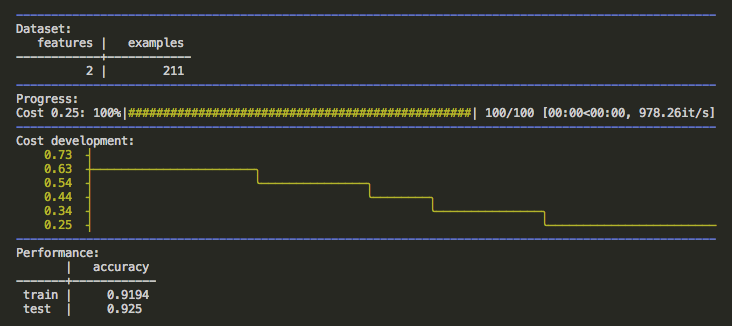
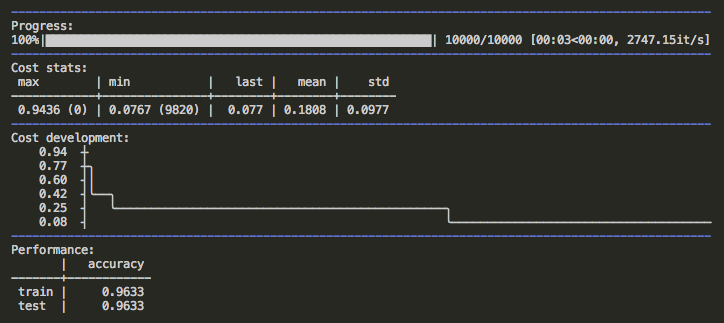
New data source

Changed region(s): [[0.0, 0.031, 1.0, 0.9598]]

diff --git a/main.py b/main.py
@@ -1,28 +1,27 @@
-import numpy as np
 from tabulate import tabulate
 from colorama import Fore
 
-from data import load_2D_dataset
+from data import load_dataset
 from model import DeepNN
-from utils.regularizers import Dropout
 
 from utils.layer import Layer
 from utils import activations
+from utils.regularizers import L2
 
 
 # Load data
-train_X, train_Y, test_X, test_Y = load_2D_dataset()
+train_X, train_Y, test_X, test_Y = load_dataset()
 
 # Set up the model
 dnn = DeepNN([
-    Layer(n=20, activation=activations.ReLU),
-    Layer(n=3, activation=activations.ReLU),
+    Layer(n=5, activation=activations.ReLU),
+    Layer(n=2, activation=activations.ReLU),
     Layer(n=1, activation=activations.sigmoid)
-], lr=0.3, num_epochs=10000)
+], lr=0.1, num_epochs=10000)
 
 # Train the model
 print()
-costs = dnn.train(train_X, train_Y, print_progress=True, print_coststats=True)
+costs = dnn.train(train_X, train_Y, print_progress=True, print_coststats=True, print_costdev=True)
 
 # Check the performance
 print(Fore.BLUE + '-' * 100 + Fore.RESET)

diff --git a/data.py b/data.py
@@ -2,6 +2,7 @@ import numpy as np
 import h5py
 import scipy.io
 import sklearn
+import sklearn.datasets
 
 import os
 dirname = os.path.dirname(__file__)
@@ -35,5 +36,18 @@ def load_2D_dataset():
     train_Y = data['y'].T
     test_X = data['Xval'].T
     test_Y = data['yval'].T
+
+    return train_X, train_Y, test_X, test_Y
+
+
+def load_dataset():
+    train_X, train_Y = sklearn.datasets.make_moons(n_samples=300, noise=.2)
+    test_X, test_Y = sklearn.datasets.make_moons(n_samples=300, noise=.2)
+    # Visualize the data
+    train_X = train_X.T
+    train_Y = train_Y.reshape((1, train_Y.shape[0]))
+
+    test_X = test_X.T
+    test_Y = test_Y.reshape((1, test_Y.shape[0]))
 
     return train_X, train_Y, test_X, test_Y

diff --git a/utils/optimizers.py b/utils/optimizers.py
@@ -46,7 +46,7 @@ class Momentum:
                 v['d' + k] = self.beta * v['d' + k] + (1 - self.beta) * grad
 
                 # Update parameters
-                layer.params[k] -= lr * v['d' + k]
+                layer.params[k] = layer.params[k] - lr * v['d' + k]
 
 
 class Adam:
@@ -111,7 +111,7 @@ class Adam:
                 s_corrected = s['d' + k] / (1 - self.beta2 ** self.t)
 
                 # Update parameters
-                layer.params[k] -= lr * v_corrected / (np.sqrt(s_corrected) + self.epsilon)
+                layer.params[k] = layer.params[k] - lr * v_corrected / (np.sqrt(s_corrected) + self.epsilon)
 
         # Update epoch
         self.t += 1

diff --git a/model.py b/model.py
@@ -135,7 +135,7 @@ class DeepNN:
         for layer in self.layers:
             for key in layer.params:
                 # Update the rule for each parameter in each layer
-                layer.params[key] -= self.lr * layer.grads['d' + key]
+                layer.params[key] = layer.params[key] - self.lr * layer.grads['d' + key]
 
     #########
     # TRAIN #
